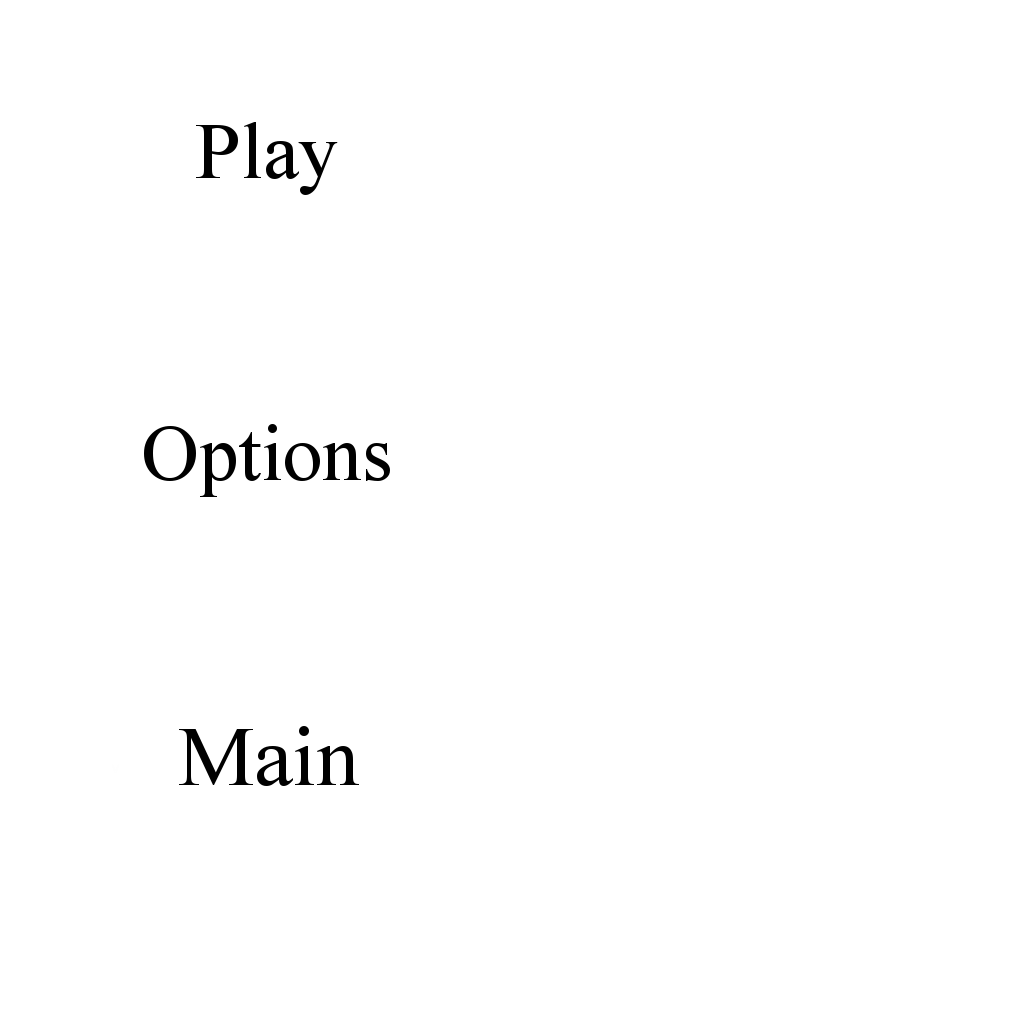
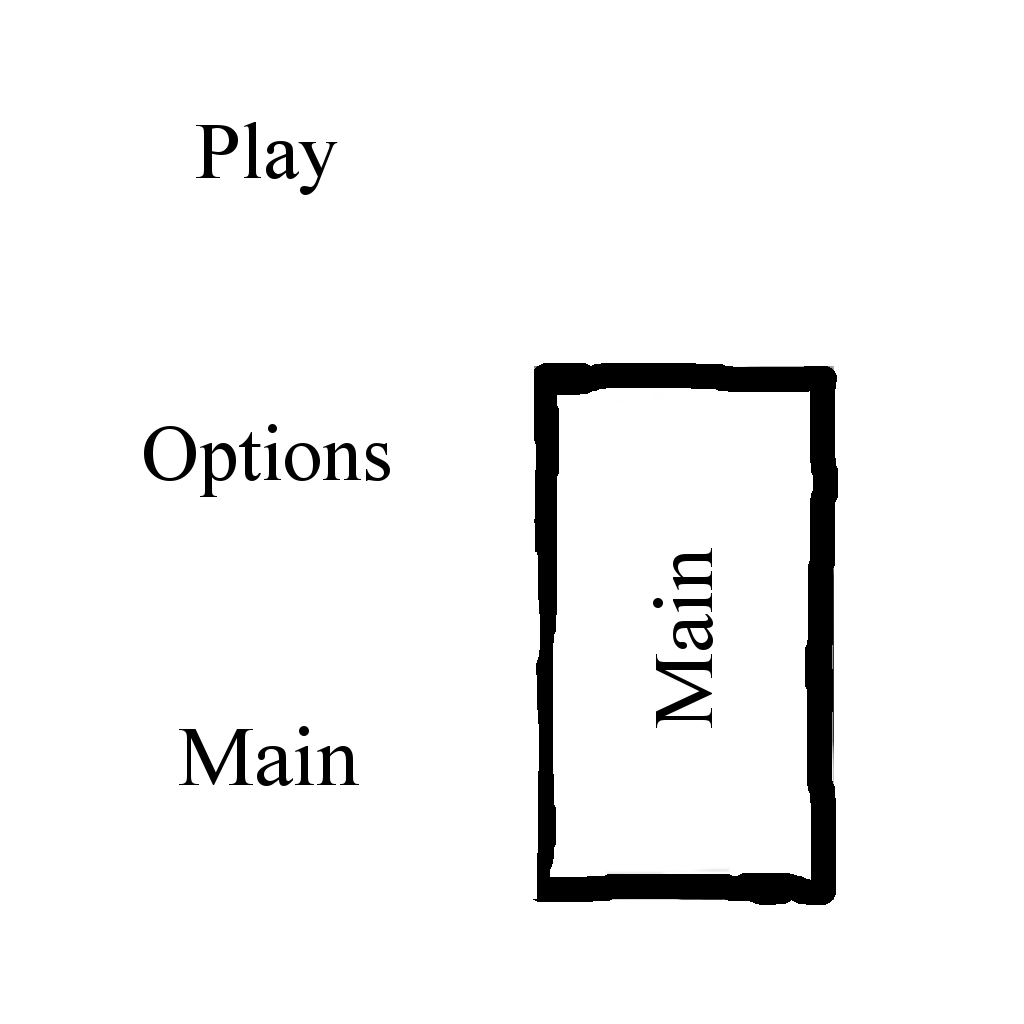
Curtain closes on previous screen and opens on next screen.

Changed region(s): [[0.5, 0.3438, 0.8438, 0.9062], [0.625, 0.5312, 0.7188, 0.7188]]

diff --git a/LibGDX_Generate/core/src/org/TheGivingChild/Screens/ScreenHowToPlay.java b/LibGDX_Generate/core/src/org/TheGivingChild/Screens/ScreenHowToPlay.java
@@ -35,8 +35,8 @@ class ScreenHowToPlay extends ScreenAdapter{
 											  "Button_MainScreen_Editor", 
 											  "ButtonPressed_MainScreen_Options", 
 											  "Button_MainScreen_Options",
-											  "ButtonPressed_MainScreen_CharacterCreator",
-											  "Button_MainScreen_CharacterCreator"};
+											  "ButtonPressed_MainScreen_Main",
+											  "Button_MainScreen_Main"};
 	private Skin skin = new Skin();
 	private AssetManager manager = new AssetManager();
 	private boolean isRendered = false;

diff --git a/LibGDX_Generate/core/src/org/TheGivingChild/Engine/TGC_Engine.java b/LibGDX_Generate/core/src/org/TheGivingChild/Engine/TGC_Engine.java
@@ -242,7 +242,7 @@ public class TGC_Engine extends Game {
 	@Override
 	public void render () {
 		camera.update();
-		ScreenAdapterManager.getInstance().screenTransitionIn();
+		//ScreenAdapterManager.getInstance().screenTransitionIn();
 		/**
 		 * This checks if the manager is done updating or not. If the manager is not 
 		 * done loading, it will display a transition until it is done loading. Once 
